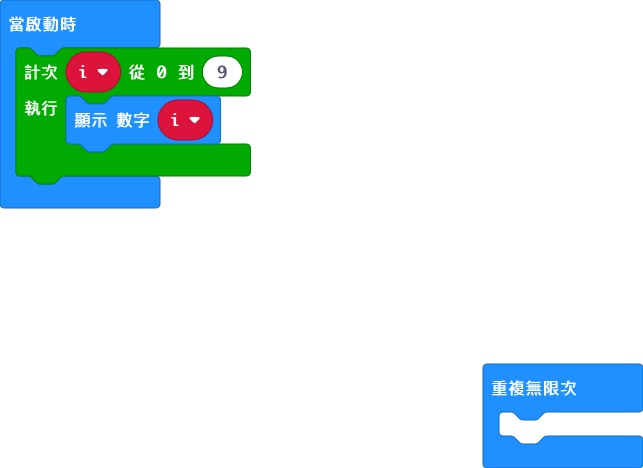
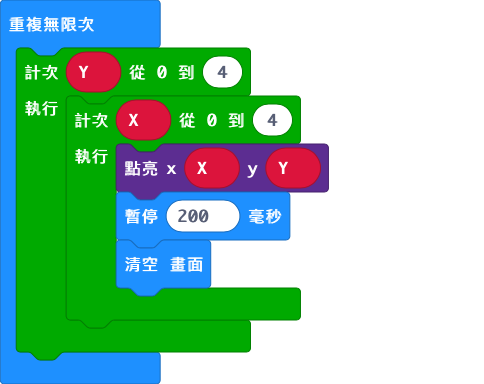
Update pxt.json, main.blocks, main.ts, main.py

diff --git a/main.ts b/main.ts
@@ -1,6 +1,9 @@
-for (let i = 0; i <= 9; i++) {
-    basic.showNumber(i)
-}
 basic.forever(function () {
-	
+    for (let Y = 0; Y <= 4; Y++) {
+        for (let X = 0; X <= 4; X++) {
+            led.plot(X, Y)
+            basic.pause(200)
+            basic.clearScreen()
+        }
+    }
 })

diff --git a/main.py b/main.py
@@ -1,0 +1,8 @@
+def on_forever():
+    for degress in range(5):
+        for degress2 in range(5):
+            Y = 0
+            X = 0
+            led.plot(X, Y)
+            basic.pause(200)
+basic.forever(on_forever)
